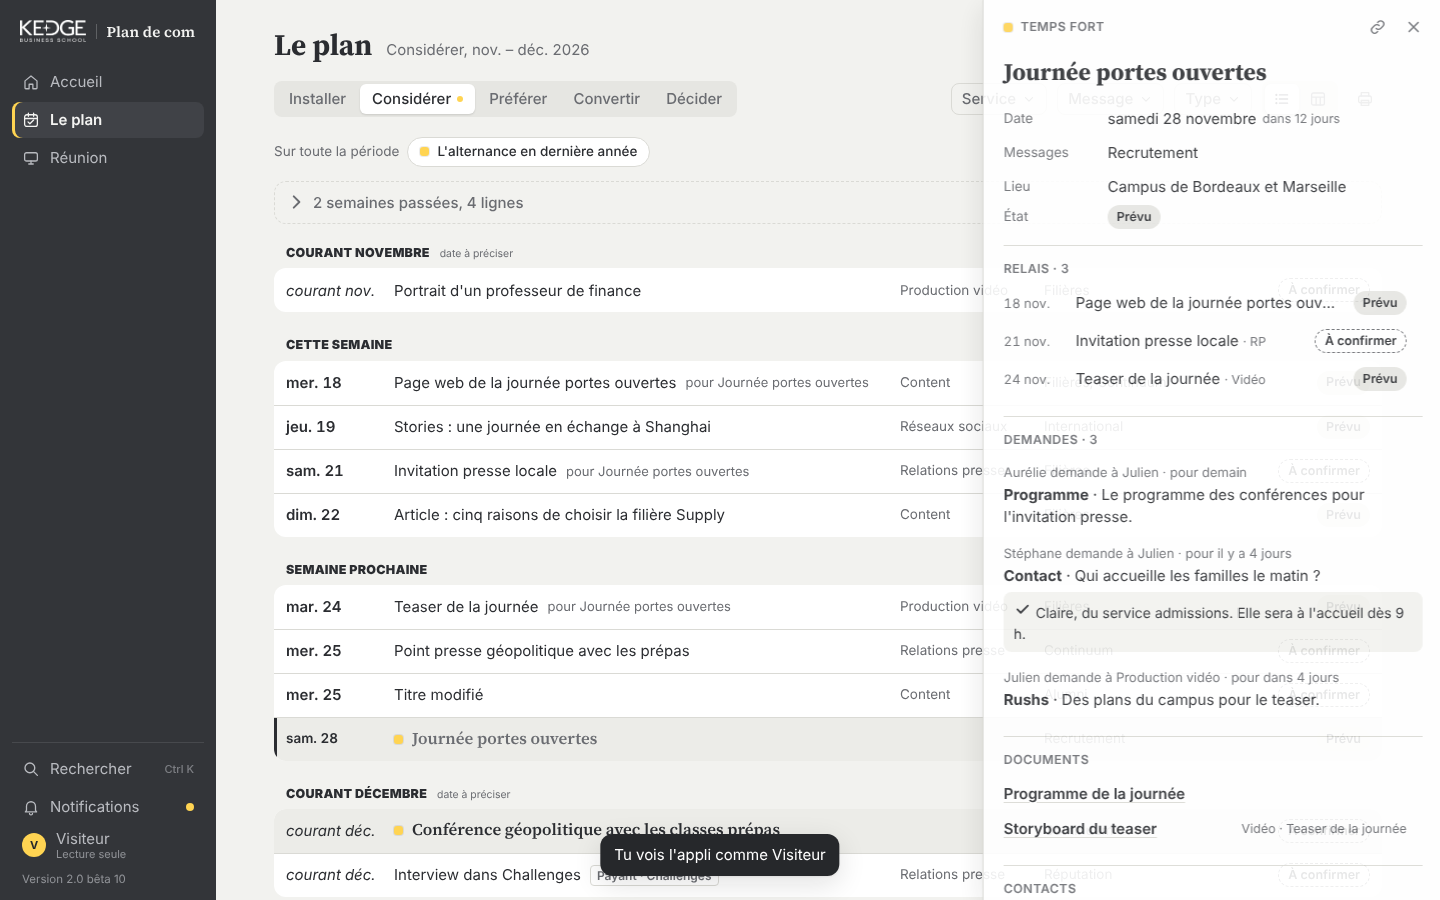
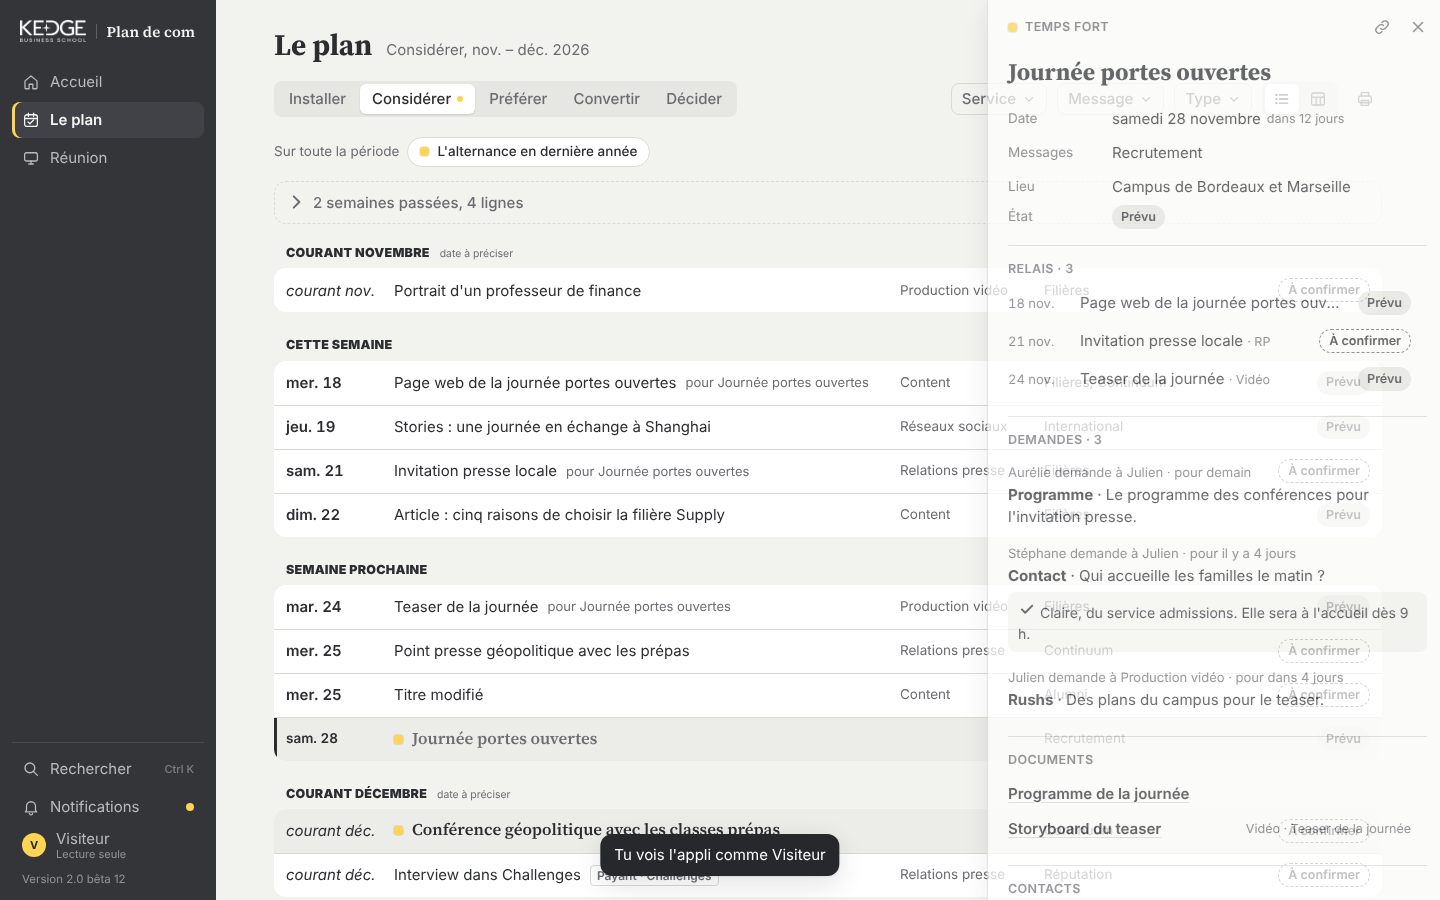
V2 : ménage de la base et choix de notifications (0024), liens des notifications (2.0 bêta 12)
Claude-Session: https://claude.ai/code/session_01Mhm4z9Xc9oso4ZHvVTrCgV

diff --git a/site/js/version.js b/site/js/version.js
@@ -5,6 +5,7 @@
    (il met à jour version.json, sw.js et CHANGELOG.md, et vérifie que tout concorde). */
 window.KP = window.KP || {};
 window.KP.VERSIONS = [
+  { n: "2.0.0-beta.12", date: "2026-11-16", notes: ["Les liens des notifications ouvrent la bonne fiche", "Côté base, prêt pour la bascule : trois choix de notifications et ménage"] },
   { n: "2.0.0-beta.11", date: "2026-11-16", notes: ["L'appli sait se brancher sur la base : connexion par adresse et mot de passe, lecture et enregistrement. Le branchement reste éteint jusqu'à la bascule", "Un sujet peut couvrir plusieurs périodes"] },
   { n: "2.0.0-beta.10", date: "2026-11-16", notes: ["La V2 rejoint le dépôt d'origine, sur la branche v2 ; la V1 est archivée sur la branche v1", "L'historique des versions de la V1 est repris dans cette liste"] },
   { n: "2.0.0-beta.9", date: "2026-11-16", notes: ["Sur téléphone, les cinq périodes tiennent sur la largeur de l'écran, filtres et affichage sur la ligne du dessous"] },

diff --git a/site/js/app.js b/site/js/app.js
@@ -6,6 +6,9 @@
 
   /* ---------- une adresse par vue ---------- */
   const parseHash = () => {
+    /* liens des notifications de la base, au format de la V1 : « #item=<id> » ouvre la fiche, « #afaire » l'accueil */
+    const old = /^#item=([\w-]+)/.exec(location.hash);
+    if (old) history.replaceState(null, "", "#/accueil?fiche=" + old[1]); else if (location.hash === "#afaire") history.replaceState(null, "", "#/accueil");
     const [path, q = ""] = location.hash.replace(/^#\/?/, "").split("?");
     const seg = path.split("/").filter(Boolean), p = new URLSearchParams(q);
     const r = { screen: ["accueil", "plan", "reunion", "reglages"].includes(seg[0]) ? seg[0] : "accueil", per: curPer(), tab: "ordre", vue: p.get("vue") === "grille" ? "grille" : "liste", svc: p.get("svc") || "", msg: p.get("msg") || "", type: p.get("type") || "", fiche: p.get("fiche") || "" };

diff --git a/site/sw.js b/site/sw.js
@@ -1,6 +1,6 @@
 /* Plan de com KEDGE · V2 — pour que l'appli s'installe et s'ouvre sans réseau.
    Le réseau d'abord (on a toujours la dernière version), le cache en secours. */
-const VERSION = "2.0.0-beta.11";
+const VERSION = "2.0.0-beta.12";
 const CACHE = "kplan-v2-" + VERSION;
 const FILES = ["./", "index.html", "version.json", "manifest.webmanifest", "css/v2.css", "fonts/krc-serif.woff", "assets/kedge-logo-blanc.png", "icons/icon-192.png",
   "js/version.js", "js/icons.js", "js/data.js", "js/ui.js", "js/suggestions.js", "js/fiche.js", "js/plan.js", "js/accueil.js", "js/reunion.js", "js/reglages.js", "js/app.js", "js/remote.js", "config.js", "vendor/supabase-2.117.3.js"];

diff --git a/README.md b/README.md
@@ -29,9 +29,10 @@ Le branchement sur la base est écrit (`site/js/remote.js`) mais **éteint** : i
 ## Base : sauvegarde et migrations de la V2
 
 - **Sauvegarder** (lecture seule, rien n'est modifié) : `SUPABASE_ACCESS_TOKEN=… node scripts/sauvegarde.mjs <référence du projet>`. Le fichier va dans `~/kedge-plan-com-sauvegardes`, hors du dépôt (le dépôt est public). Vérifier un fichier : `node scripts/sauvegarde.mjs --verifier <fichier>`.
-- **Migrations 0019 à 0023** : Content et « Recrutement », report et annulation avec motif, carnet de lieux et de contacts, profil modifiable par chacun. Elles s'appliquent **le jour de la bascule seulement**, après une sauvegarde : la V1 en ligne ne connaît pas « Recrutement ». Attention, `scripts/setup.mjs` applique toutes les migrations du dossier : ne pas le lancer depuis cette branche avant la bascule.
+- **Migrations 0019 à 0024** : Content et « Recrutement », report et annulation avec motif, carnet de lieux et de contacts, profil modifiable par chacun. Elles s'appliquent **le jour de la bascule seulement**, après une sauvegarde : la V1 en ligne ne connaît pas « Recrutement ». Attention, `scripts/setup.mjs` applique toutes les migrations du dossier : ne pas le lancer depuis cette branche avant la bascule.
 - **0023** : demander des éléments à n'importe quelle personne de l'équipe ; la Direction du Programme et la Dir. marketing ne sont plus des destinataires.
-- Reste à écrire : respect des trois choix de notifications, notifications sur téléphone dans la V2, et le ménage (statuts ramenés à 3, services prévenus, blocages, cases média, offre et marketing, destinataires Direction du Programme et Dir. marketing).
+- **0024, le ménage** : trois statuts, plus de services prévenus ni de blocages (« à trancher en réunion » reste), plus de Direction du Programme, Dir. marketing ni Resp. offre comme destinataires, un pilote gère les partenariats, et chacun choisit ses notifications. Les colonnes devenues inutiles restent en place, vides.
+- Reste à écrire : les notifications sur téléphone dans la V2 (abonnement push depuis l'appli).
 - Vérifier la base : `sh test/v2/base.sh` répète la bascule sur un Postgres local (la V1, des données à la façon de la V1, puis les migrations de la V2 et `test/db/v2.sql`).
 - Vérifier le branchement : `(cd site && python3 -m http.server 8812)` puis `node test/v2/branchement.mjs` (faux client Supabase, sans réseau : il vérifie la traduction entre l'appli et la base, pas les droits).
 

diff --git a/CHANGELOG.md b/CHANGELOG.md
@@ -2,6 +2,11 @@
 
 Généré depuis `site/js/version.js` par `node scripts/version.mjs`. Ne pas modifier à la main.
 
+## 2.0 bêta 12 · 2026-11-16
+
+- Les liens des notifications ouvrent la bonne fiche
+- Côté base, prêt pour la bascule : trois choix de notifications et ménage
+
 ## 2.0 bêta 11 · 2026-11-16
 
 - L'appli sait se brancher sur la base : connexion par adresse et mot de passe, lecture et enregistrement. Le branchement reste éteint jusqu'à la bascule
